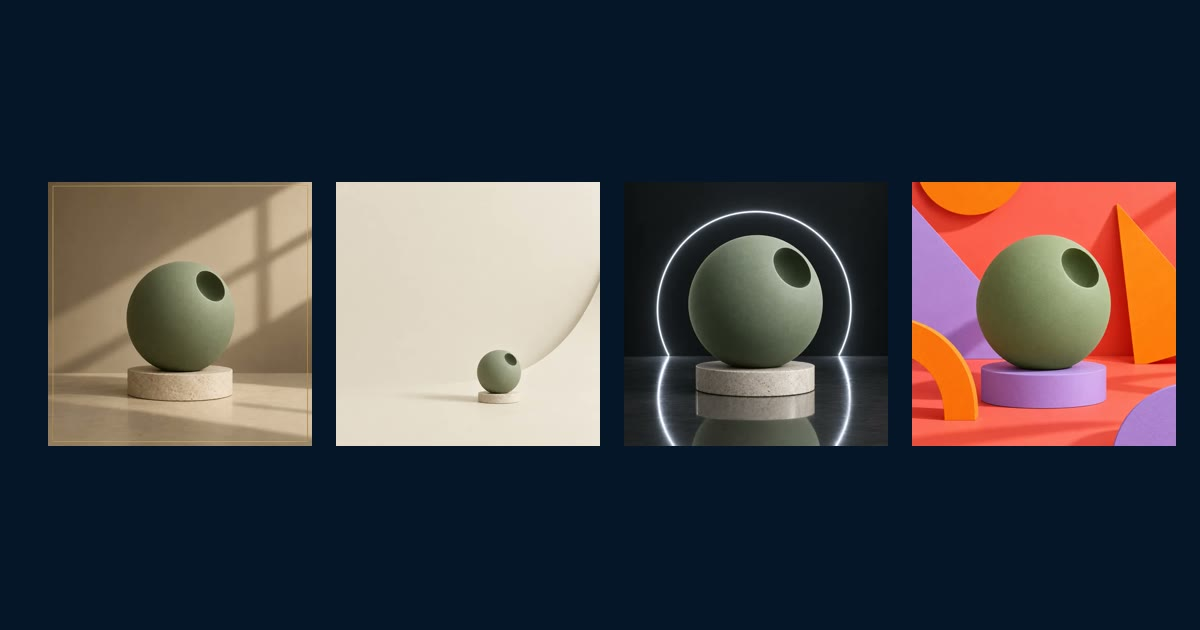
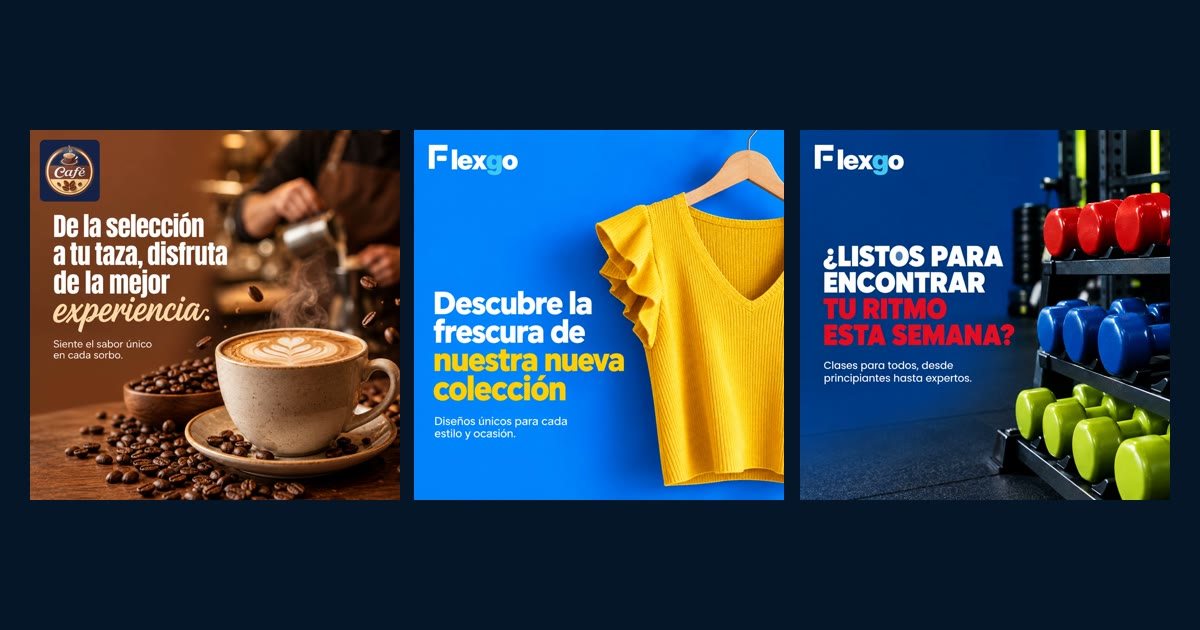
Mostrar ejemplos reales hechos con CreaGo

diff --git a/creago.html b/creago.html
@@ -17,7 +17,7 @@
 <meta property="og:image" content="https://flexgogroup.com/assets/imagenes/compartir-creago.jpg">
 <meta property="og:image:width" content="1200">
 <meta property="og:image:height" content="630">
-<meta property="og:image:alt" content="Cuatro estilos de imagen de CreaGo: elegante, minimalista, tecnológico y juvenil">
+<meta property="og:image:alt" content="Publicaciones de ejemplo hechas con CreaGo para una cafetería, una tienda de ropa y un gimnasio">
 <meta name="twitter:card" content="summary_large_image">
 <link rel="icon" href="assets/imagenes/favicon.svg" type="image/svg+xml">
 <link rel="preload" href="assets/fuentes/SpaceGrotesk-var.woff2" as="font" type="font/woff2" crossorigin>
@@ -79,10 +79,10 @@
         </div>
       </div>
       <div class="cg-mosaico">
-        <figure><img src="assets/imagenes/creago/estilo-elegant.webp" width="640" height="640" alt="Imagen de ejemplo en estilo elegante" fetchpriority="high"><figcaption>Elegante</figcaption></figure>
-        <figure><img src="assets/imagenes/creago/estilo-tech.webp" width="640" height="640" alt="Imagen de ejemplo en estilo tecnológico"><figcaption>Tecnológico</figcaption></figure>
-        <figure><img src="assets/imagenes/creago/estilo-minimal.webp" width="640" height="640" alt="Imagen de ejemplo en estilo minimalista"><figcaption>Minimalista</figcaption></figure>
-        <figure><img src="assets/imagenes/creago/estilo-youthful.webp" width="640" height="640" alt="Imagen de ejemplo en estilo juvenil"><figcaption>Juvenil</figcaption></figure>
+        <figure><img src="assets/imagenes/creago/ejemplos/1-cafeteria.webp" width="720" height="720" alt="Publicación de ejemplo para una cafetería, hecha con CreaGo" fetchpriority="high"></figure>
+        <figure><img src="assets/imagenes/creago/ejemplos/3-tienda-ropa.webp" width="720" height="720" alt="Publicación de ejemplo para una tienda de ropa, hecha con CreaGo"></figure>
+        <figure><img src="assets/imagenes/creago/ejemplos/4-dental.webp" width="720" height="720" alt="Publicación de ejemplo para una clínica dental, hecha con CreaGo"></figure>
+        <figure><img src="assets/imagenes/creago/ejemplos/6-gimnasio.webp" width="720" height="720" alt="Publicación de ejemplo para un gimnasio, hecha con CreaGo"></figure>
       </div>
     </div>
   </section>
@@ -94,7 +94,22 @@
         <li><h3>Define tu marca</h3><p>Responde un cuestionario visual y CreaGo aprende el estilo, los colores y el tono de tu negocio.</p></li>
         <li><h3>Planifica tu mes</h3><p>Organiza tus publicaciones en un calendario y ten claro qué toca publicar cada día.</p></li>
         <li><h3>Crea textos</h3><p>Escribe publicaciones, titulares y descripciones con la voz de tu marca.</p></li>
-        <li><h3>Crea imágenes</h3><p>Genera imágenes para tus piezas en el estilo que elijas: elegante, minimalista, tecnológico o juvenil.</p></li>
+        <li><h3>Crea imágenes</h3><p>Genera imágenes para tus publicaciones con tus colores, tu logo y un titular listo para redes.</p></li>
+      </ul>
+    </div>
+  </section>
+
+  <section class="cg-bloque" aria-labelledby="cg-ejemplos">
+    <div class="shell">
+      <h2 id="cg-ejemplos">Ejemplos hechos con CreaGo</h2>
+      <p class="cg-nota">Publicaciones creadas con CreaGo para negocios de prueba, con su imagen y su texto.</p>
+      <ul class="cg-ejemplos">
+        <li><figure><img src="assets/imagenes/creago/ejemplos/1-cafeteria.webp" width="720" height="720" alt="Publicación de ejemplo para cafetería: promo de desayuno, hecha con CreaGo" loading="lazy" decoding="async"><figcaption><b>Cafetería</b> Promo de desayuno</figcaption></figure></li>
+        <li><figure><img src="assets/imagenes/creago/ejemplos/2-restaurante.webp" width="720" height="720" alt="Publicación de ejemplo para restaurante: plato del día, hecha con CreaGo" loading="lazy" decoding="async"><figcaption><b>Restaurante</b> Plato del día</figcaption></figure></li>
+        <li><figure><img src="assets/imagenes/creago/ejemplos/3-tienda-ropa.webp" width="720" height="720" alt="Publicación de ejemplo para tienda de ropa: nueva colección, hecha con CreaGo" loading="lazy" decoding="async"><figcaption><b>Tienda de ropa</b> Nueva colección</figcaption></figure></li>
+        <li><figure><img src="assets/imagenes/creago/ejemplos/4-dental.webp" width="720" height="720" alt="Publicación de ejemplo para clínica dental: consejo de cuidado, hecha con CreaGo" loading="lazy" decoding="async"><figcaption><b>Clínica dental</b> Consejo de cuidado</figcaption></figure></li>
+        <li><figure><img src="assets/imagenes/creago/ejemplos/5-ferreteria.webp" width="720" height="720" alt="Publicación de ejemplo para ferretería: oferta de herramientas, hecha con CreaGo" loading="lazy" decoding="async"><figcaption><b>Ferretería</b> Oferta de herramientas</figcaption></figure></li>
+        <li><figure><img src="assets/imagenes/creago/ejemplos/6-gimnasio.webp" width="720" height="720" alt="Publicación de ejemplo para gimnasio: clases de la semana, hecha con CreaGo" loading="lazy" decoding="async"><figcaption><b>Gimnasio</b> Clases de la semana</figcaption></figure></li>
       </ul>
     </div>
   </section>

diff --git a/css/pagina.css b/css/pagina.css
@@ -24,11 +24,18 @@
 .cg-nota { max-width: 60ch; margin: 0 auto 24px; text-align: center; }
 .cg-planes + .cg-nota { margin-top: 22px; }
 .cg-centro { justify-content: center; }
+.cg-ejemplos { display: grid; grid-template-columns: repeat(3, minmax(0, 1fr)); gap: 18px; padding: 0; margin: 0; list-style: none; }
+.cg-ejemplos figure { margin: 0; overflow: hidden; border: 1px solid var(--line); border-radius: 22px; background: #0a1f3a; }
+.cg-ejemplos img { display: block; width: 100%; height: auto; }
+.cg-ejemplos figcaption { padding: 12px 16px; font-size: 14px; }
+.cg-ejemplos figcaption b { display: block; color: #fff; font-size: 16px; }
 @media (max-width: 900px) {
   .cg-portada-grid { grid-template-columns: 1fr; }
   .cg-tarjetas { grid-template-columns: 1fr 1fr; }
   .cg-planes { grid-template-columns: 1fr; }
+  .cg-ejemplos { grid-template-columns: 1fr 1fr; }
 }
 @media (max-width: 560px) {
   .cg-tarjetas { grid-template-columns: 1fr; }
+  .cg-ejemplos { gap: 12px; }
 }
